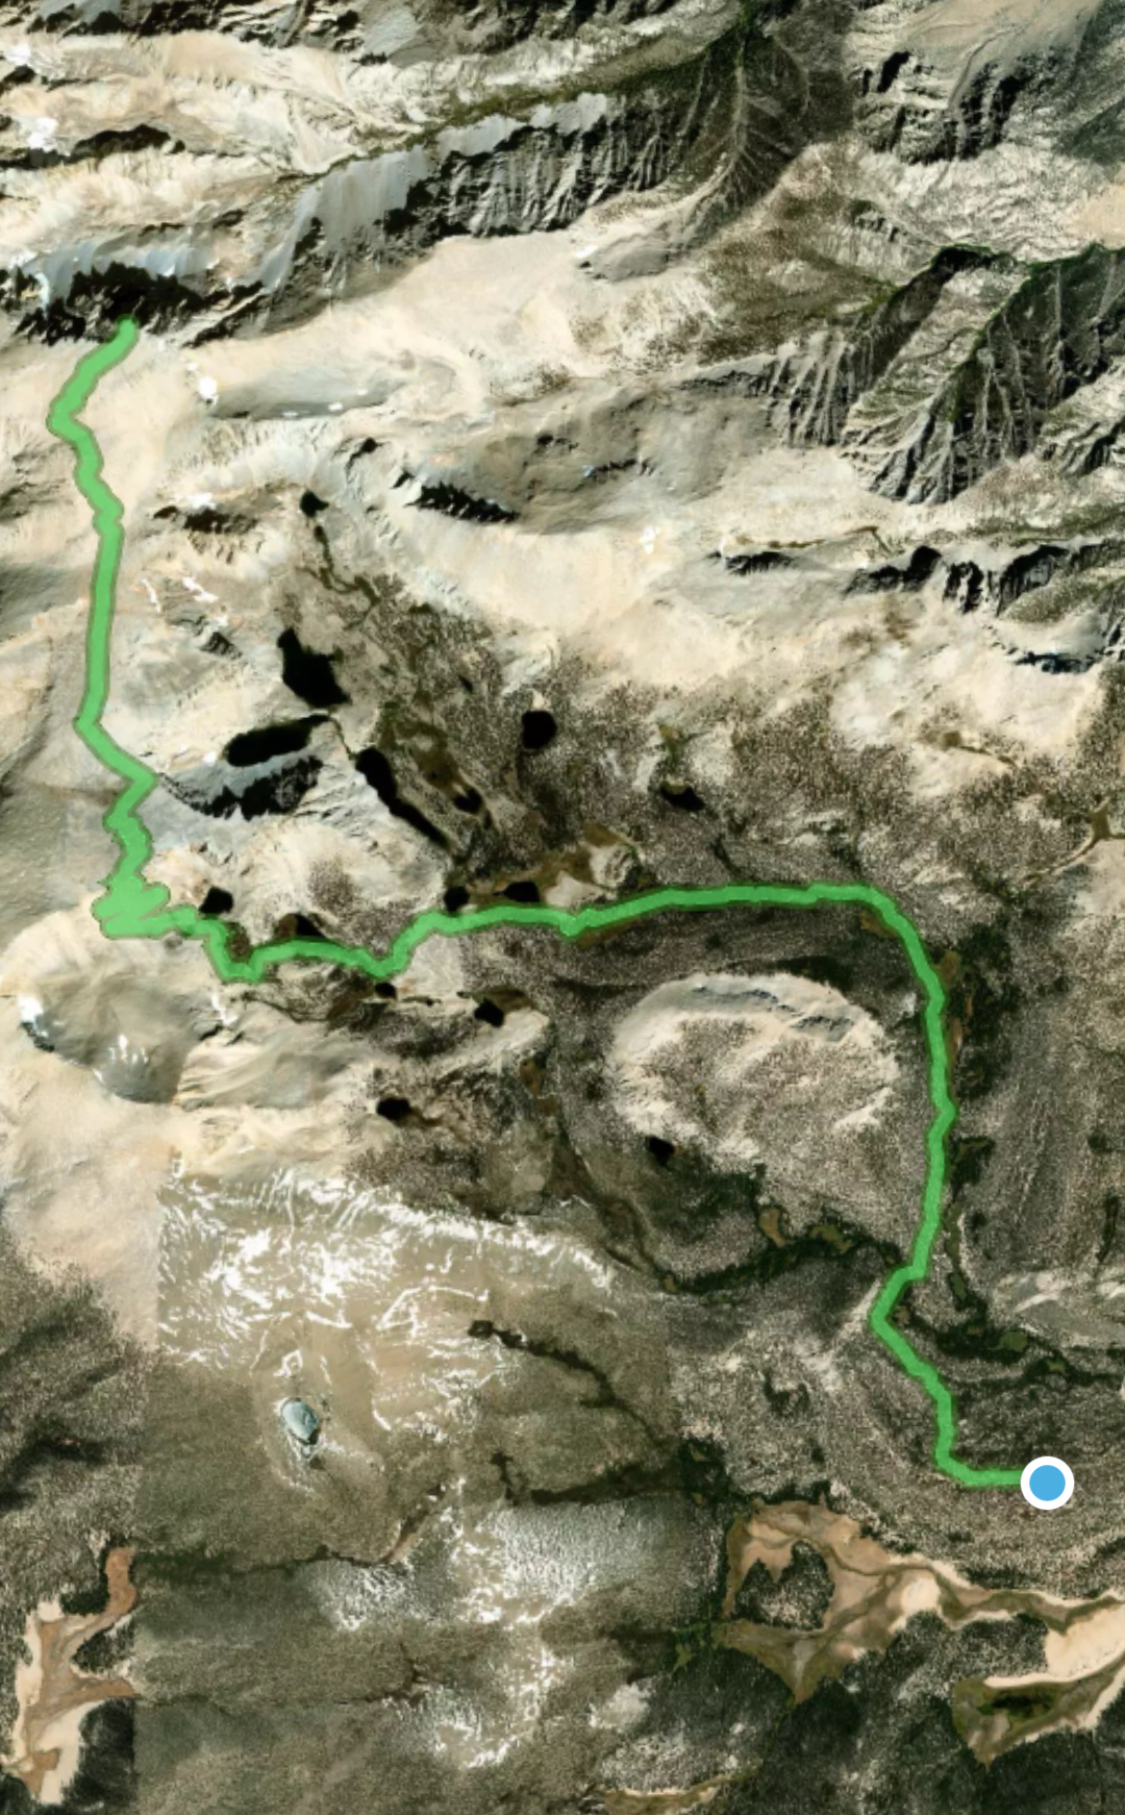
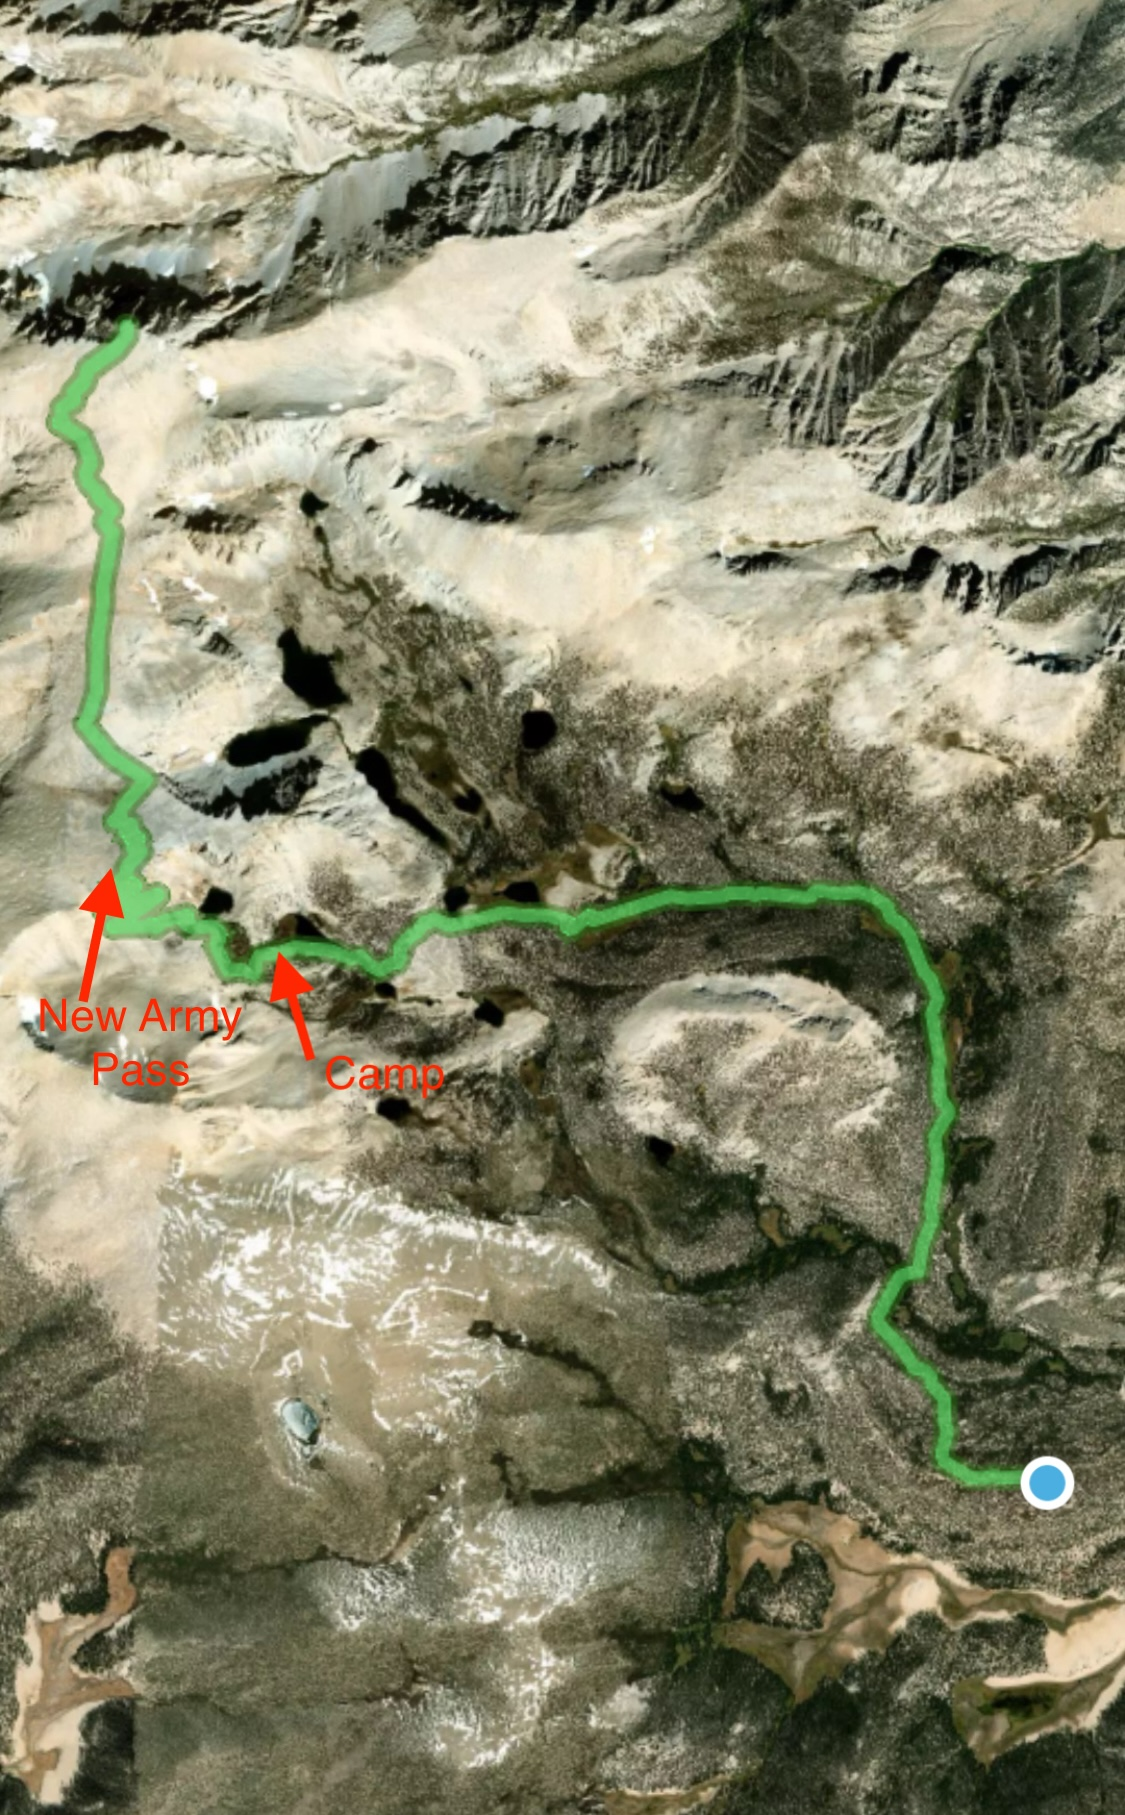
updating langley report

Changed region(s): [[0.0311, 0.4628, 0.2178, 0.6171], [0.28, 0.5862, 0.4044, 0.6171], [0.2178, 0.5245, 0.28, 0.5862]]

diff --git a/_posts/2024/2024-06-20-plannin-mt-langley.md b/_posts/2024/2024-06-20-plannin-mt-langley.md
@@ -4,16 +4,24 @@ comments: true
 date: 2024-06-20T21:47:49Z
 layout: post
 slug: planning-mt-langley 
-title: Planning Mt. Langley
+title: Planning for Mt. Langley
 categories:
     - mountaineering
     - hiking
 prompt: |
     
 ---
-### Route
+We are planning to hike Mt. Langley via the new army pass, next weekend (July 28-30). Its a target hike for Asha for Education's Climbing program.
 
-![Langley Route]((/assets/images/2024/langleyhike-2024.jpg){: width="400px" height="400px" align="center"})
+Following heading are some of the planning items which I will update over next few days, to assist with our trip.
+
+## Before Going
+- Talk to the ranger station at Mt. Langley Forest Service Department
+- Check weather forecast at Mt. Langley Weather Forecast 
+
+## Route
+
+![Langley Route](/assets/images/2024/langleyhike-2024.jpg){: width="400px" height="400px" align="center"}
 
 Will possibly choose new Army pass (~ 23 miles) since the snow on it will be likely less than old Army pass (~19 miles). This will add some additional mileage to the trip. We will camp at the Long Lake -- Base of New Army pass. The hike to base is mostly easy and flat.
 
@@ -22,26 +30,22 @@ Will possibly choose new Army pass (~ 23 miles) since the snow on it will be lik
 
 We start from [Cottonwood Lakes Walk In Campground](https://www.fs.usda.gov/recarea/inyo/recarea/?recid=20692), [Google Maps](https://www.google.com/maps/place/Cottonwood+Lakes+Walk+in+Campground/@36.4528607,-118.1714253,17z/)
 
-### Packing List
+## Packing List
 - Repel 100
 - Headlights
 - Packout bag
 - Nalgene
-- [[Microspikes]]
+- [Microspikes](https://www.amazon.com/Traction-Crampons-Stainless-Climbing-Mountaineering/dp/B07H4BL4KL)
 
-### Tips
+#### Tips
 - Read AllTrails Trip [reports](https://www.alltrails.com/trail/us/california/mount-langley)
 - Download the GPX file on to the GPS device, that way you can check ocassionally to see if you are on track. If you don't have GPS the GAIA GPS app is the best app.
-- 
+ 
 
-### Links
-[Mt. Langley Forest Service Department](https://www.fs.usda.gov/recarea/inyo/recreation/outdoorlearning/recarea/?recid=20698&actid=120)
-[Weather Forecast](https://www.mountain-forecast.com/peaks/Mount-Langley/forecasts/4275)
-[Microspikes](https://www.amazon.com/Traction-Crampons-Stainless-Climbing-Mountaineering/dp/B07H4BL4KL)
-
-### Before Going
-- Talk to the ranger station at [[Mt. Langley Forest Service Department]] 
-- Check weather forecast at [[Mt. Langley Weather Forecast]] 
+#### Links
+- [Mt. Langley Forest Service Department](https://www.fs.usda.gov/recarea/inyo/recreation/outdoorlearning/recarea/?recid=20698&actid=120)
+- [Weather Forecast](https://www.mountain-forecast.com/peaks/Mount-Langley/forecasts/4275)
+- [Microspikes](https://www.amazon.com/Traction-Crampons-Stainless-Climbing-Mountaineering/dp/B07H4BL4KL)
 
 
 
